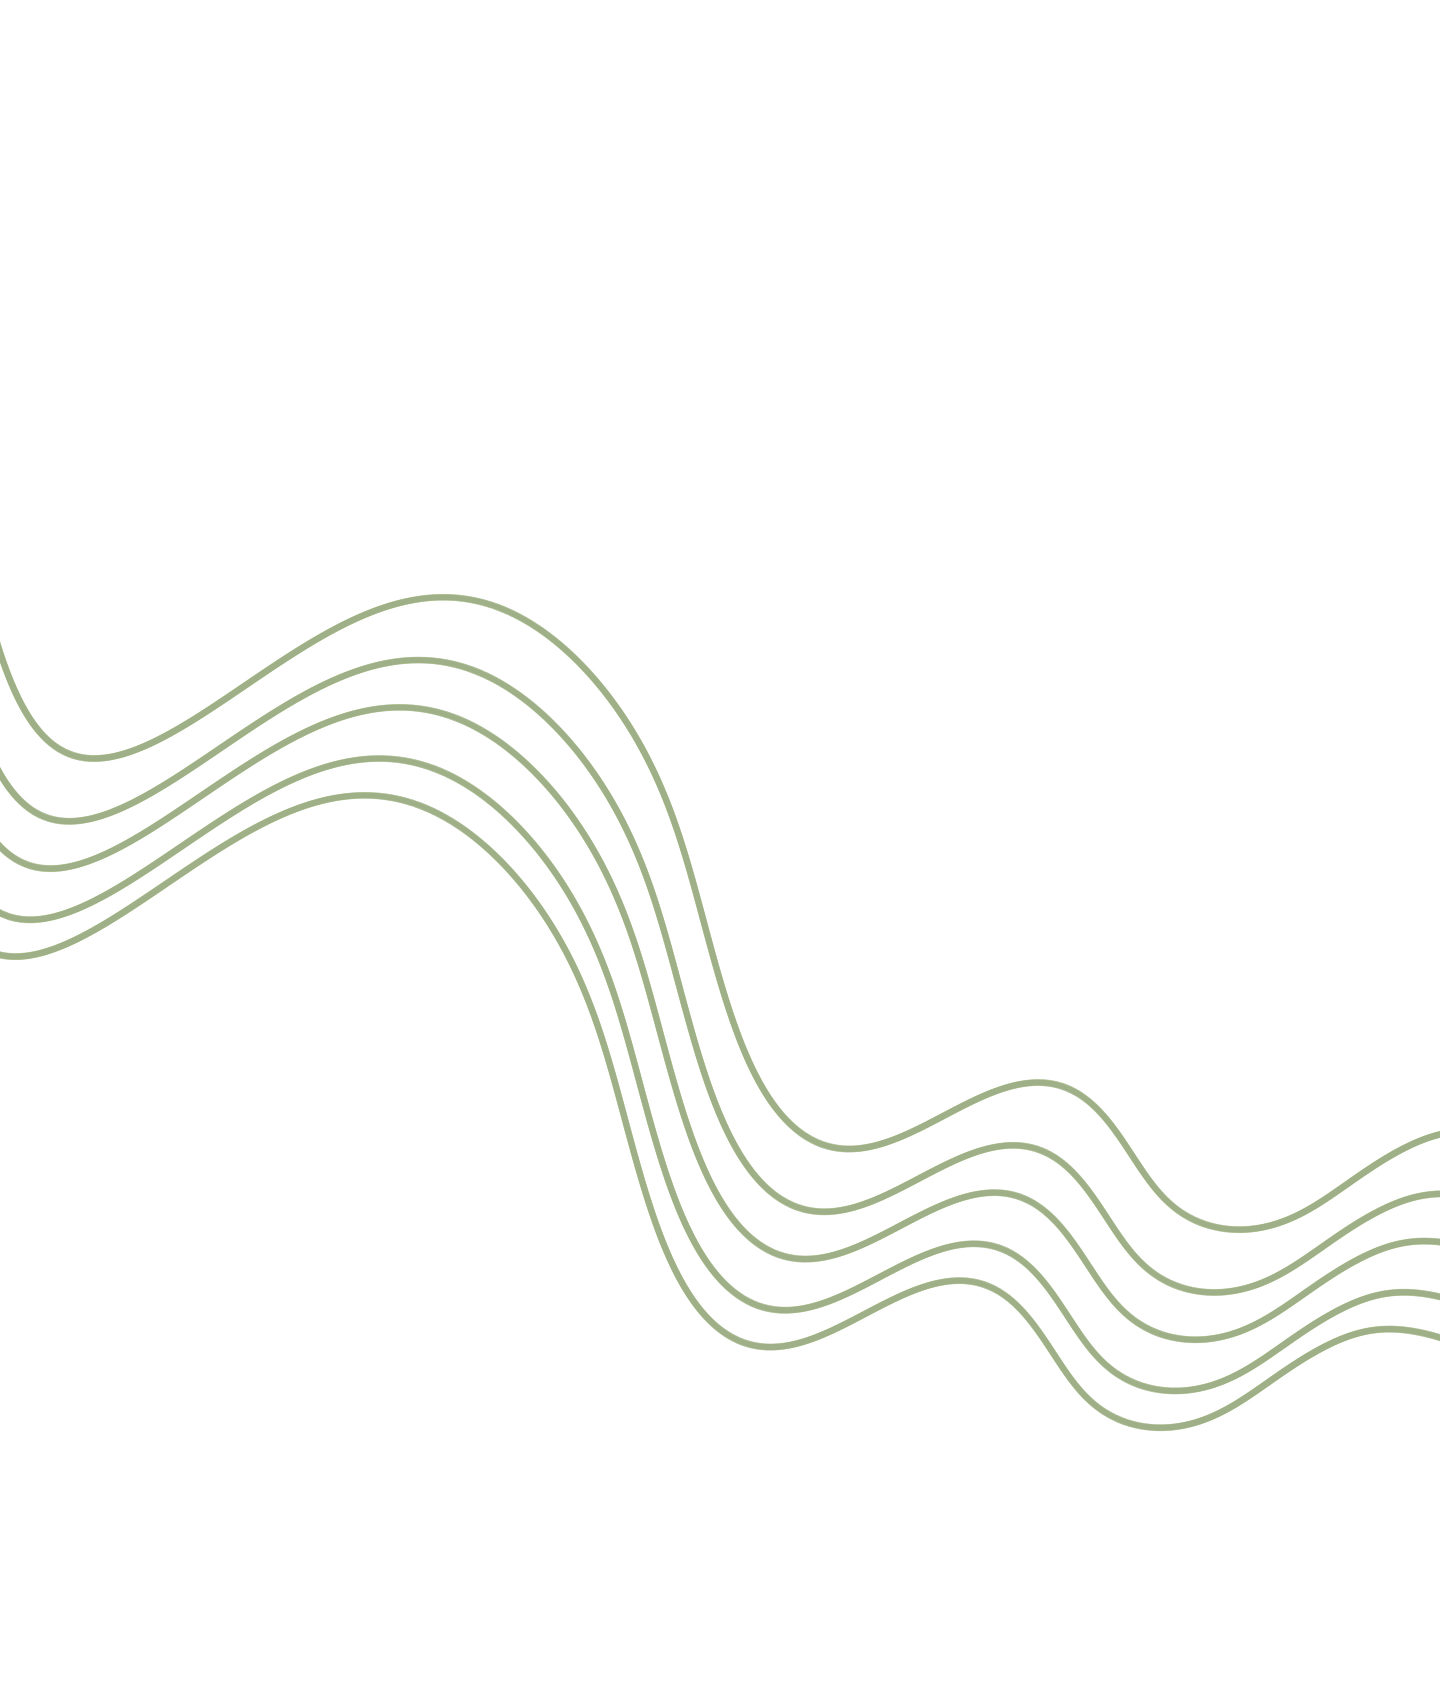
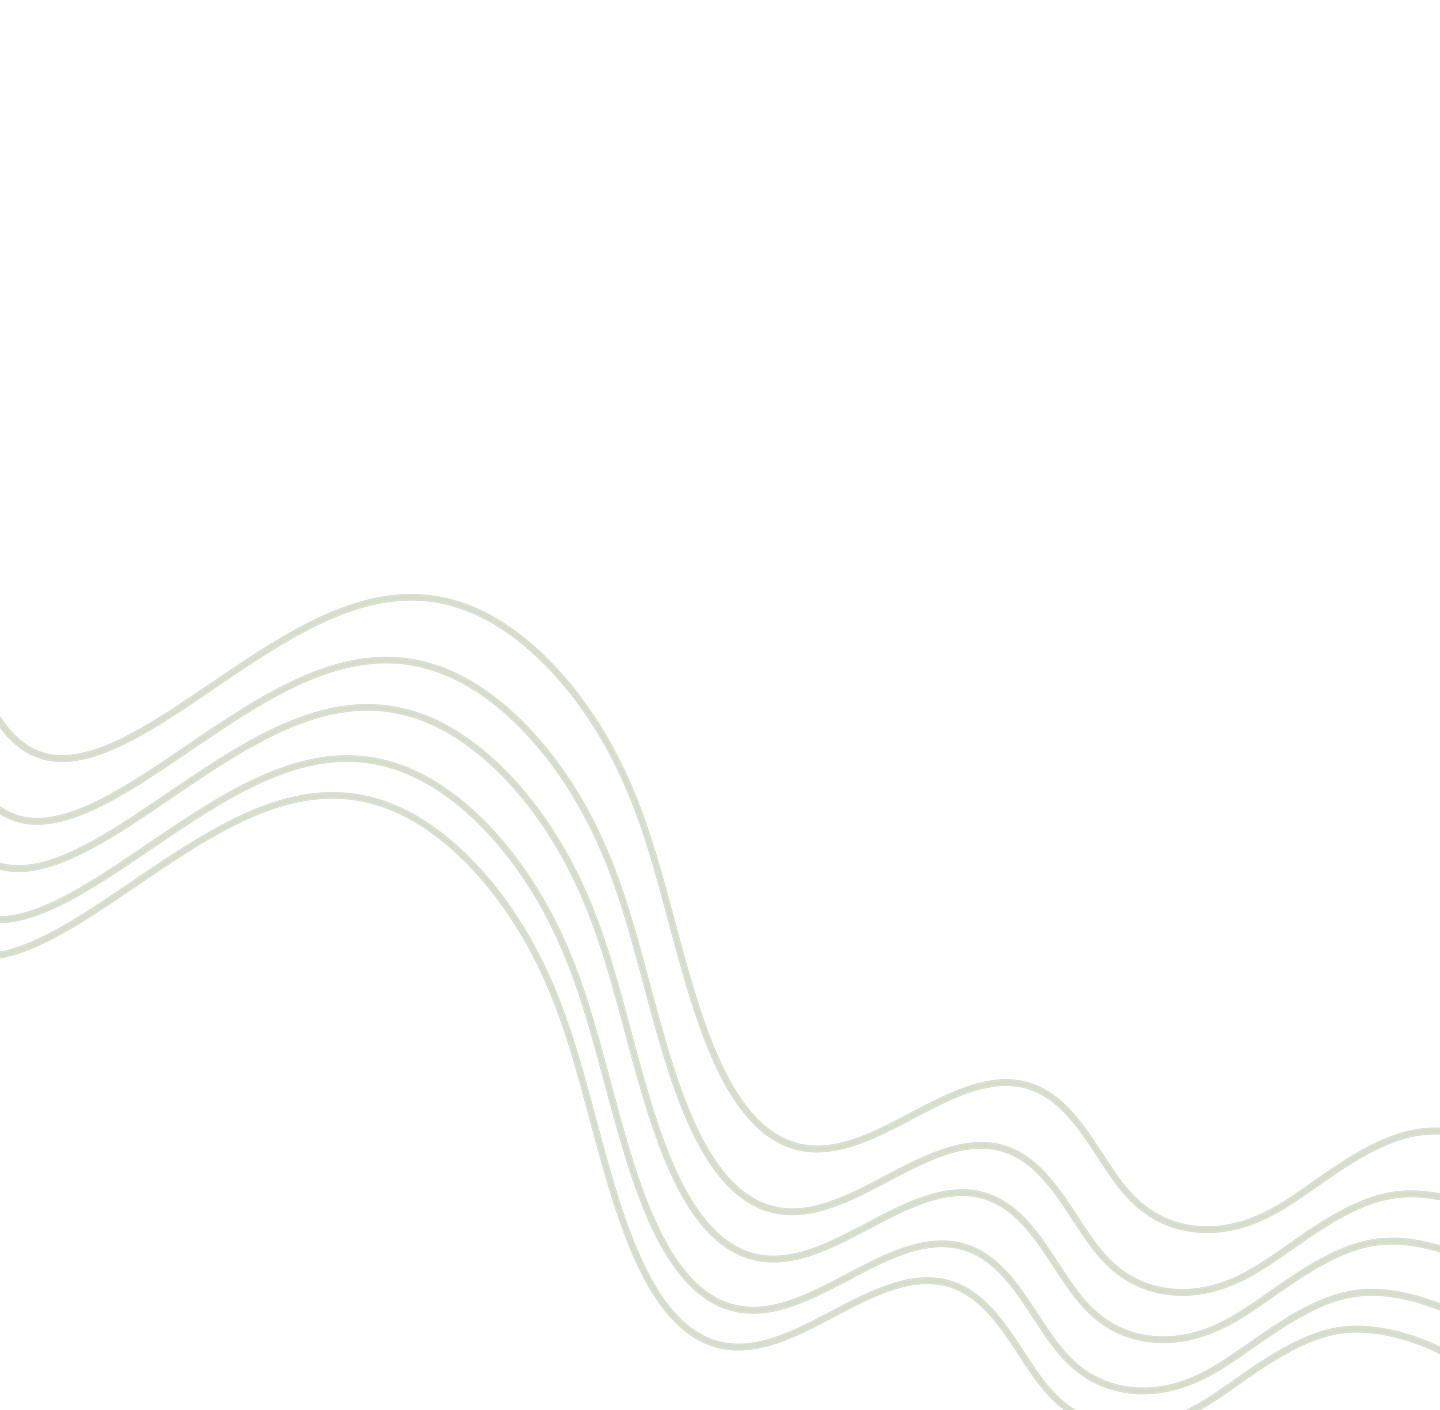
fix

Changed region(s): [[0.0, 0.3433, 1.0, 1.0], [0.0, 0.3745, 0.0312, 0.4369]]

diff --git a/src/pages/Gallery.jsx b/src/pages/Gallery.jsx
@@ -1,6 +1,5 @@
 import Pattern1 from "../assets/images/pattern1.png";
 import Pattern2 from "../assets/images/pattern7.png";
-import Pattern3 from "../assets/images/pattern8.png";
 import Img1 from "../assets/images/img11.png";
 import Img2 from "../assets/images/img12.png";
 import Img3 from "../assets/images/img13.png";
@@ -8,73 +7,79 @@ import Img4 from "../assets/images/img14.png";
 import Img5 from "../assets/images/img15.png";
 import Img6 from "../assets/images/img16.png";
 import Img7 from "../assets/images/img17.png";
+import Img8 from "../assets/images/img19.png";
 
 export default function Gallery() {
   return (
     <>
-      <section className="relative bg-[url('/src/assets/images/bg-gallery.png')] h-screen bg-cover bg-center bg-no-repeat z-1">
+      <section className="relative bg-[url('/src/assets/images/bg-hero2.png')] h-screen bg-cover bg-center bg-no-repeat z-1">
+        <img src={Img8} alt="" className="hidden lg:block absolute -top-10 right-0 -z-1 w-100 xl:w-[600px]" />
+
         <div className="flex justify-center items-center h-full w-full px-4">
-          <div className="text-white text-center w-full">
-            <h1 className="text-4xl sm:text-6xl uppercase font-bold lg:w-4xl mx-auto">GALERY: Momen di sekolah Kopi lampung barat</h1>
-            <p className="text-sm md:text-xl mt-4">Mengenal lebih dekat para petani, siswa, instruktur dan kegiatan yang ada di Sekolah Kopi Lampung Barat.</p>
+          <div className="text-center lg:max-w-2xl">
+            <h1 className="text-4xl sm:text-6xl font-bold">
+              Galeri <span className="font-bilbo text-5xl md:text-8xl">Momen</span> di <span className="font-bilbo text-5xl md:text-8xl">Sekolah Kopi</span> Lampung Barat
+            </h1>
+            <p className="text-sm md:text-xl mt-4 font-light">Mengenal lebih dekat para petani, siswa, instruktur dan kegiatan yang ada di Sekolah Kopi Lampung Barat.</p>
           </div>
         </div>
 
-        <img src={Pattern1} alt="" className="absolute w-full -bottom-50 md:-bottom-90 lg:top-0 right-0 -z-1" />
+        <img src={Pattern1} alt="" className="absolute w-full -bottom-50 md:-bottom-130 lg:top-50 right-0 -z-1" />
       </section>
 
-      <section className="relative max-w-7xl mx-auto px-4 sm:px-6 lg:px-8 py-12 md:py-24 z-1">
-        <div className="flex flex-col md:flex-row gap-8 md:gap-12 lg:gap-24">
-          <div className="flex flex-col justify-between gap-8">
-            <h1 className="uppercase text-3xl md:text-4xl font-light text-center md:text-right tracking-wider">Selamat datang di Galeri Sekolah Kopi Lampung Barat!</h1>
-            <p className="md:text-xl lg:text-2xl w-full text-justify">
-              Di sini, Anda dapat menjelajahi berbagai momen edukatif dan menarik yang terjadi di Sekolah Kopi. Setiap gambar dan video kami hadirkan untuk membawa Anda lebih dekat dengan proses pembuatan kopi yang unik, keindahan alam
-              Lampung Barat, serta pengalaman wisata edukatif yang kami tawarkan.
+      <div className="bg-[url('/src/assets/images/bg-hero2.png')] bg-repeat">
+        <section className="relative max-w-7xl mx-auto px-4 sm:px-6 lg:px-8 py-12 md:py-24 z-1">
+          <div className="flex flex-col md:flex-row gap-8 md:gap-12 lg:gap-24">
+            <div className="flex flex-col justify-between gap-8">
+              <h1 className="uppercase text-3xl md:text-4xl font-light text-center md:text-right tracking-wider">Selamat datang di Galeri Sekolah Kopi Lampung Barat!</h1>
+              <p className="md:text-xl lg:text-2xl w-full text-justify">
+                Di sini, Anda dapat menjelajahi berbagai momen edukatif dan menarik yang terjadi di Sekolah Kopi. Setiap gambar dan video kami hadirkan untuk membawa Anda lebih dekat dengan proses pembuatan kopi yang unik, keindahan alam
+                Lampung Barat, serta pengalaman wisata edukatif yang kami tawarkan.
+              </p>
+            </div>
+
+            <img src={Img1} alt="" className="w-full md:w-1/2 lg:w-full h-auto object-cover" />
+          </div>
+        </section>
+
+        <section className="max-w-7xl mx-auto px-4 sm:px-6 lg:px-8 pb-12">
+          <div className="flex flex-col md:flex-row justify-end gap-12">
+            <h1 className="uppercase text-3xl md:text-4xl font-light text-center md:text-right w-full md:w-[370px] tracking-wider">Melihat Lebih Dekat Proses Kopi Lampung Barat</h1>
+            <img src={Img2} alt="" />
+          </div>
+        </section>
+
+        <section className="max-w-7xl mx-auto px-4 sm:px-6 lg:px-8 md:py-12">
+          <img src={Img3} alt="" className="w-full h-auto md:w-max object-cover" />
+        </section>
+
+        <section className="max-w-7xl mx-auto px-4 sm:px-6 lg:px-8 pt-12 md:py-12">
+          <div className="flex flex-col md:flex-row gap-4 md:gap-12">
+            <img src={Img4} alt="" className="w-full md:w-max h-auto object-cover" />
+            <p className="text-justify md:text-2xl">
+              Di galeri ini, Anda akan menemukan foto-foto menarik yang menggambarkan perjalanan kopi kami, mulai dari tur kebun kopi yang mempesona, proses pemetikan biji kopi, hingga workshop kopi yang penuh inspirasi. Temukan keindahan
+              alam serta tradisi kopi yang telah turun-temurun di daerah ini.
             </p>
           </div>
+        </section>
 
-          <img src={Img1} alt="" className="w-full md:w-1/2 lg:w-full h-auto object-cover" />
-        </div>
-      </section>
-
-      <section className="max-w-7xl mx-auto px-4 sm:px-6 lg:px-8 pb-12">
-        <div className="flex flex-col md:flex-row justify-end gap-12">
-          <h1 className="uppercase text-3xl md:text-4xl font-light text-center md:text-right w-full md:w-[370px] tracking-wider">Melihat Lebih Dekat Proses Kopi Lampung Barat</h1>
-          <img src={Img2} alt="" />
-        </div>
-      </section>
-
-      <section className="max-w-7xl mx-auto px-4 sm:px-6 lg:px-8 md:py-12">
-        <img src={Img3} alt="" className="w-full h-auto md:w-max object-cover" />
-      </section>
-
-      <section className="max-w-7xl mx-auto px-4 sm:px-6 lg:px-8 pt-12 md:py-12">
-        <div className="flex flex-col md:flex-row gap-4 md:gap-12">
-          <img src={Img4} alt="" className="w-full md:w-max h-auto object-cover" />
-          <p className="text-justify md:text-2xl">
-            Di galeri ini, Anda akan menemukan foto-foto menarik yang menggambarkan perjalanan kopi kami, mulai dari tur kebun kopi yang mempesona, proses pemetikan biji kopi, hingga workshop kopi yang penuh inspirasi. Temukan keindahan
-            alam serta tradisi kopi yang telah turun-temurun di daerah ini.
-          </p>
-        </div>
-      </section>
-
-      <section className="relative z-1">
-        <div className="max-w-7xl mx-auto px-4 sm:px-6 lg:px-8 pt-12 md:py-12 lg:pb-24">
-          <div className="flex flex-col gap-12">
-            <img src={Img5} alt="" className="w-full md:w-1/2 ml-auto" />
-            <img src={Img6} alt="" className="w-full md:w-1/2" />
+        <section className="relative z-1">
+          <div className="max-w-7xl mx-auto px-4 sm:px-6 lg:px-8 pt-12 md:py-12 lg:pb-24">
+            <div className="flex flex-col gap-12">
+              <img src={Img5} alt="" className="w-full md:w-1/2 ml-auto" />
+              <img src={Img6} alt="" className="w-full md:w-1/2" />
+            </div>
           </div>
-        </div>
 
-        <img src={Pattern2} alt="" className="absolute top-1/2 left-1/2 -translate-x-1/2 -translate-y-1/2 w-full -z-1" />
-      </section>
+          <img src={Pattern2} alt="" className="absolute top-1/2 left-1/2 -translate-x-1/2 -translate-y-1/2 w-full -z-1" />
+        </section>
 
-      <section className="relative z-1">
-        <div className="max-w-7xl mx-auto px-4 sm:px-6 lg:px-8 py-12 md:pb-50">
-          <img src={Img7} alt="" className="w-full h-auto" />
-        </div>
-        <img src={Pattern3} alt="" className="absolute w-full bottom-0 right-0 -z-1" />
-      </section>
+        <section className="relative z-1">
+          <div className="max-w-7xl mx-auto px-4 sm:px-6 lg:px-8 py-12 md:pb-50">
+            <img src={Img7} alt="" className="w-full h-auto" />
+          </div>
+        </section>
+      </div>
     </>
   );
 }

diff --git a/src/components/Navbar.jsx b/src/components/Navbar.jsx
@@ -8,7 +8,7 @@ export default function Navbar() {
   const { pathname } = useLocation(); // untuk active link
 
   useEffect(() => {
-    const excludedPaths = ["/contact", "/register", "/payment", "/class", "/information"];
+    const excludedPaths = ["/contact", "/register", "/payment", "/class", "/information", "/gallery"];
 
     const handleScroll = () => {
       if (window.innerWidth >= 768) {
